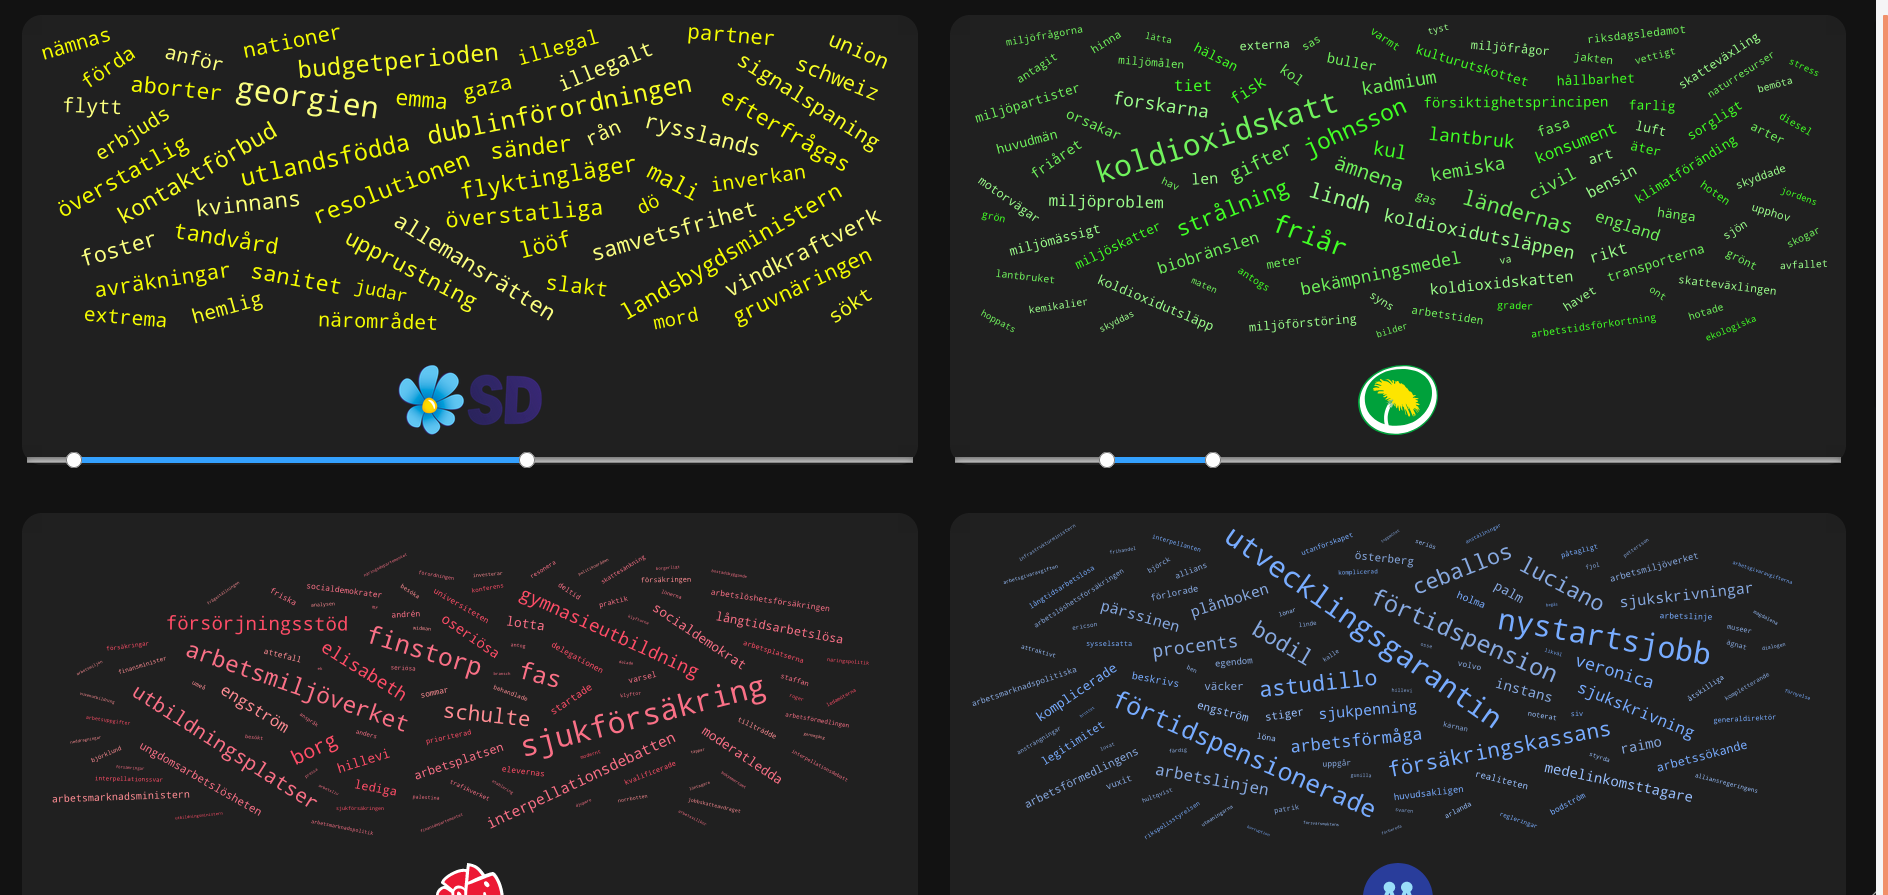
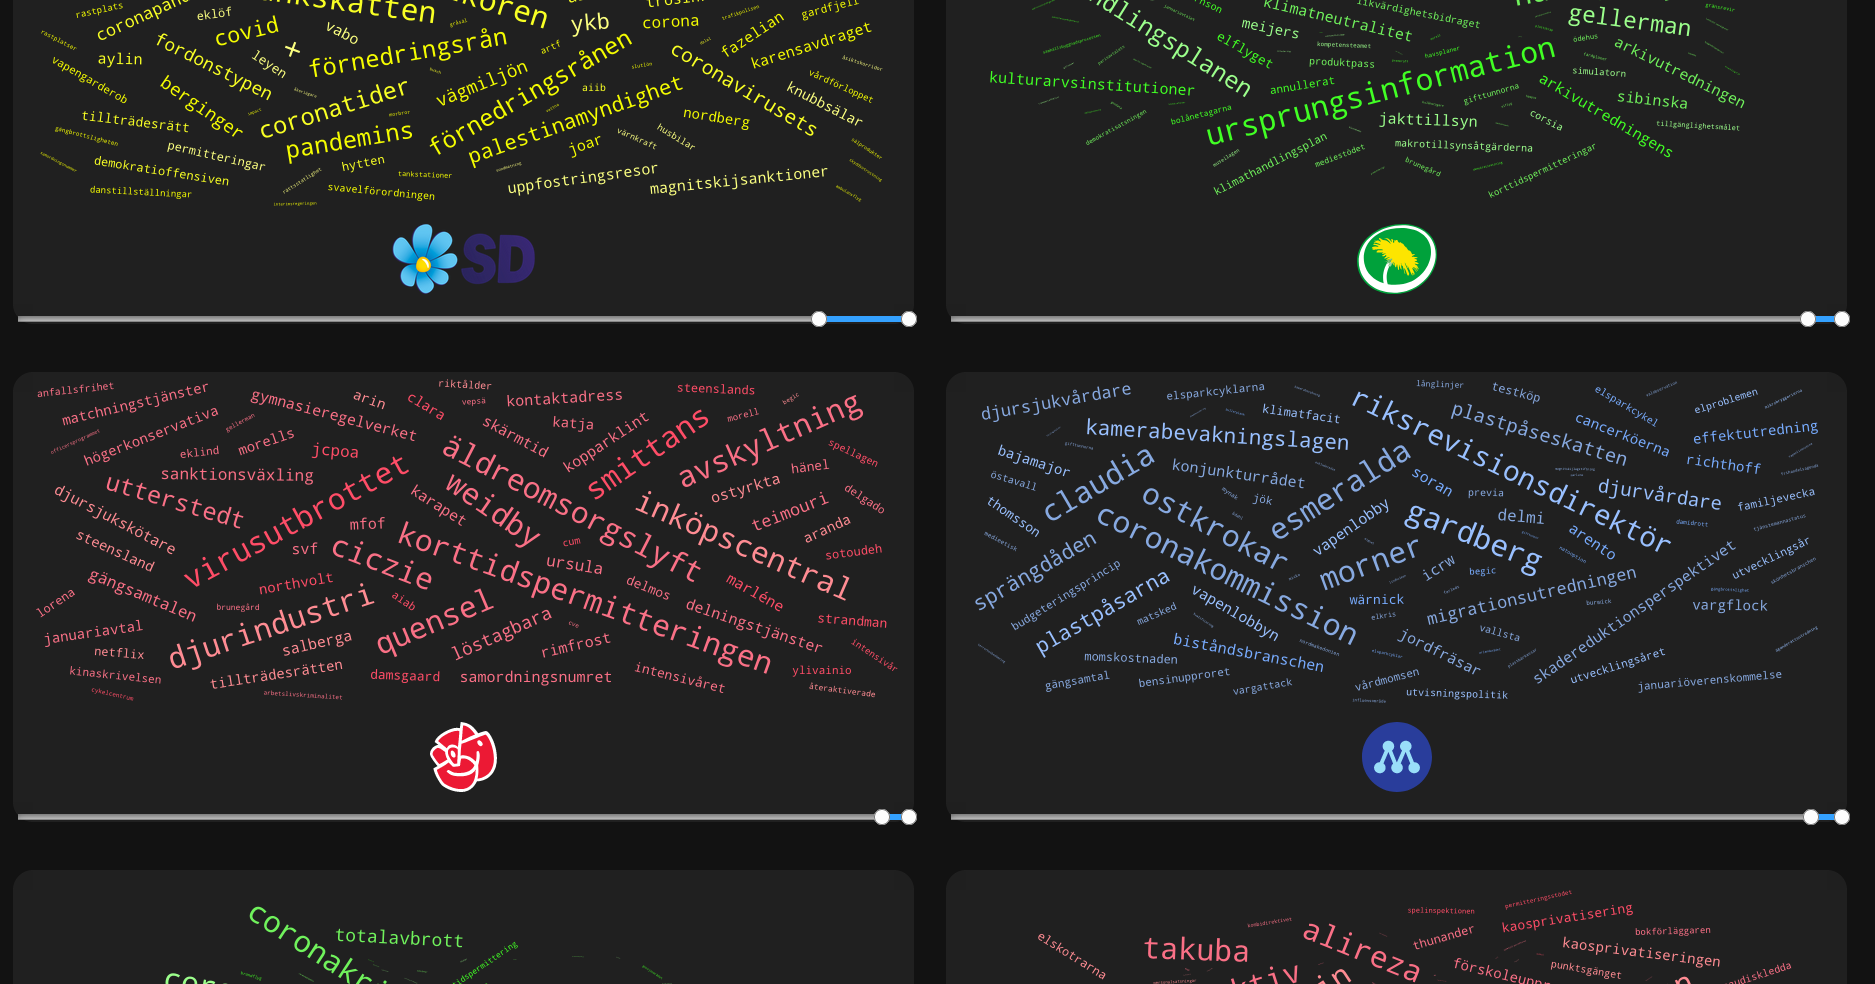
faster prefixsum calc

diff --git a/polinfo-web/src/routes/components/AnforandeWordCloud.svelte b/polinfo-web/src/routes/components/AnforandeWordCloud.svelte
@@ -41,8 +41,10 @@ let onIntervalPick = (fromIndex, toIndex) => {
     start = prefixSum[fromIndex];
   }
 
+  console.log("end", end)
 
   wordCounts = wordCountsFromCounts(subtract(end, start))
+  console.log("wordCount", wordCounts)
 }
 
 

diff --git a/polinfo/src/prefixsum.rs b/polinfo/src/prefixsum.rs
@@ -1,11 +1,12 @@
 use crate::core;
 use crate::textprocessing;
 use std::collections::HashMap;
+use log::{info, debug};
 
 
 pub struct PrefixSumFactory {
     wordifier: textprocessing::Wordifier,
-    keep_top: usize
+    drop_less_than: f64
 
 }
 
@@ -29,7 +30,7 @@ impl PrefixSumFactory {
             Ok(wordifier) => Ok(
                 PrefixSumFactory{
                     wordifier,
-                    keep_top: 3000
+                    drop_less_than: 5.0
                 })
         }
 
@@ -38,24 +39,15 @@ impl PrefixSumFactory {
     fn purge_rare_words(&self, prefixsum: &mut core::PrefixSum) {
         let last = prefixsum.counts.last().unwrap();
 
-        let mut word_count: Vec<(String, f64)> = last
-            .into_iter()
-            .map(|(word, count)| (word.clone(), count.clone()))
-            .collect();
-
-        word_count.sort_by(|(_, a), (_, b)| a.partial_cmp(&b).unwrap());
-
-        let least_common: Vec<String> = word_count
-            .iter()
-            .take(word_count.len() - self.keep_top)
+        let not_common_enough: Vec<String> = last.into_iter()
+            .filter(|(_, count)| **count < self.drop_less_than)
             .map(|(word, _)| word.clone())
             .collect();
 
         //println!("most common {:?}", word_count.iter().rev().take(100));
 
-
         for count in prefixsum.counts.iter_mut() {
-            for word in least_common.iter() {
+            for word in not_common_enough.iter() {
                 count.remove(word);
             }
         }
@@ -80,11 +72,13 @@ impl PrefixSumFactory {
         for tt in tts.iter() {
             let words = self.wordifier.words(&tt.content);
             PrefixSumFactory::accumulate_word_counts(&words, &mut word_counts);
-            if tt.time.signed_duration_since(anchor).num_weeks() > 4 {
+            if tt.time.signed_duration_since(anchor).num_weeks() > 12 {
                 dates.push(tt.time);
                 counts.push(word_counts.clone());
 
                 anchor = tt.time;
+
+                info!("{} - Unique Words {}", tt.time, word_counts.len());
             }
         }
 
@@ -94,6 +88,8 @@ impl PrefixSumFactory {
         };
 
         self.purge_rare_words(&mut prefixsum);
+        info!("Unique words after purging rare {}", 
+            prefixsum.counts.last().unwrap().len());
 
         prefixsum
     }

diff --git a/polinfo/src/textprocessing.rs b/polinfo/src/textprocessing.rs
@@ -50,7 +50,10 @@ pub struct Wordifier {
     // E.g 
     // Cookies -> Cookie
     // Cookie -> Cookie
-    standard: HashMap<String, String>
+    standard: HashMap<String, String>,
+
+    filterre: Regex
+
 }
 
 impl Wordifier {
@@ -95,20 +98,26 @@ impl Wordifier {
             Wordifier{
                 disallowed,
                 standard,
+                filterre: Regex::new("[%/\\.,!\\?\\-':;\\d\\\\\\*\\(\\)]+").unwrap()
             })
     }
 
     pub fn words(&self, s: &String) -> Vec<String> {
-        let re = Regex::new("[\\.,!\\?\\-':;\\d\\\\\\*\\(\\)]+").unwrap();
-        
-        re.replace_all(
-            s.to_lowercase().as_str(), " ")
-            .to_string()
+        self.filterre.replace_all(s, " ")
             .split_whitespace()
-            .map(|word| word.trim().to_owned())
-            .map(|w| self.standard.get(&w).unwrap_or(&w).to_owned())
-            .filter(|w| !self.disallowed.contains(w))
+            .map(|word| word.trim().to_lowercase())
+            .map(|word| self.standard.get(&word).unwrap_or(&word).to_owned())
+            .filter(|word| !self.disallowed.contains(word))
             .collect()
+
+        //self.filterre.replace_all(
+            //s.to_lowercase().as_str(), " ")
+            //.to_string()
+            //.split_whitespace()
+            //.map(|word| word.trim().to_owned())
+            //.map(|w| self.standard.get(&w).unwrap_or(&w).to_owned())
+            //.filter(|w| !self.disallowed.contains(w))
+            //.collect()
     }
 }
 

diff --git a/polinfo/src/main.rs b/polinfo/src/main.rs
@@ -64,7 +64,7 @@ async fn prefetch_prefixsum_cache(
     let db_client: Client = db_pool.get().await.unwrap();
 
     let mut prefixsums = Vec::new();
-    for affiliation in ["SD", "MP", "M", "C", "L", "S", "KD", "V"].iter() {
+    for affiliation in ["SD", "V", "S", "MP", "L", "KD", "M", "C"].iter() {
         let affiliation_string = String::from(affiliation.to_owned());
         info!("Calculating prefixsum for {}", affiliation_string);
 

diff --git a/README.md b/README.md
@@ -10,4 +10,4 @@ En hemsida som visualiserar data man kan hämta ifrån https://data.riksdagen.se
 Notera: WordClouds använder sig av en [ord standardiserings lista](polinfo-explore/word-standards.txt) samt en ['filterings' lista](polinfo-explore/disallowed-words.txt). Bidrag till dessa listor är väldigt välkommna!
 
 
-![anforanden exempel](art/anforanden.png)
+  ![anforanden exempel](art/anforanden.png)
